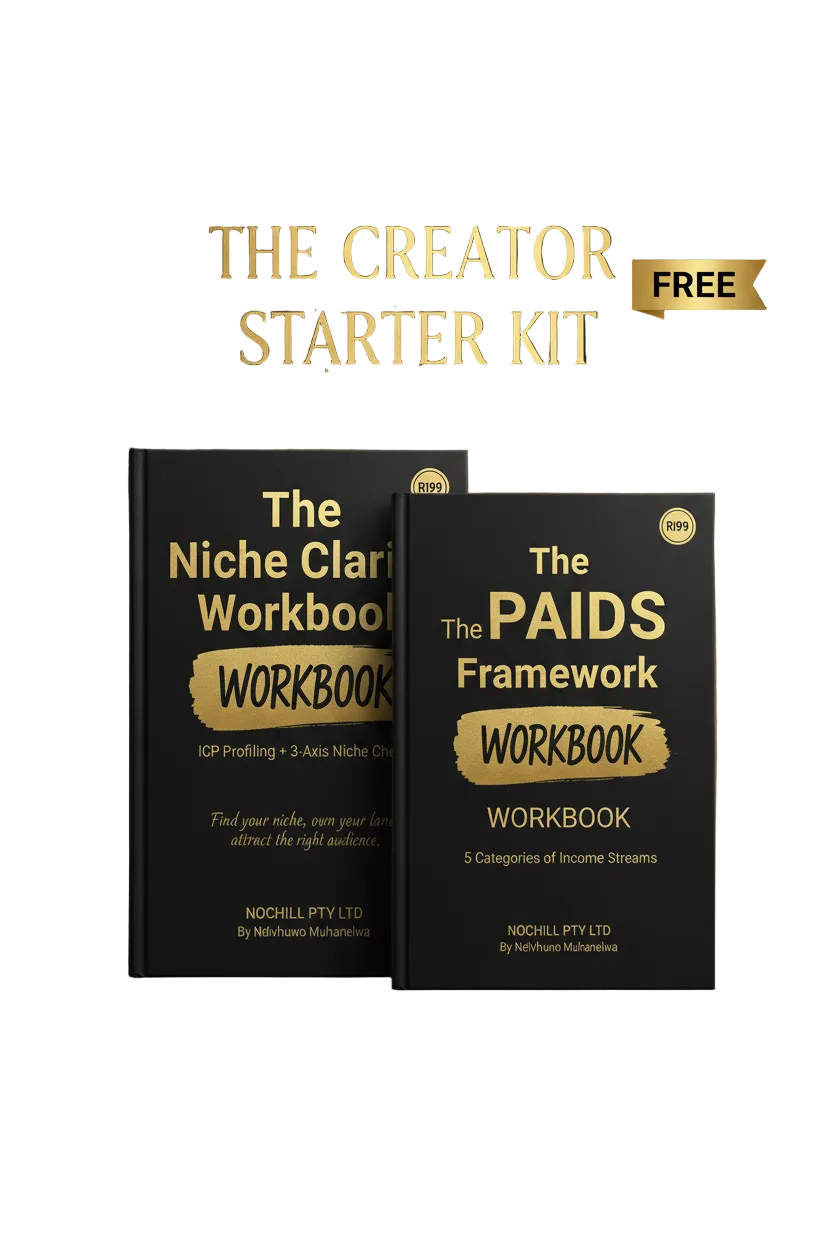
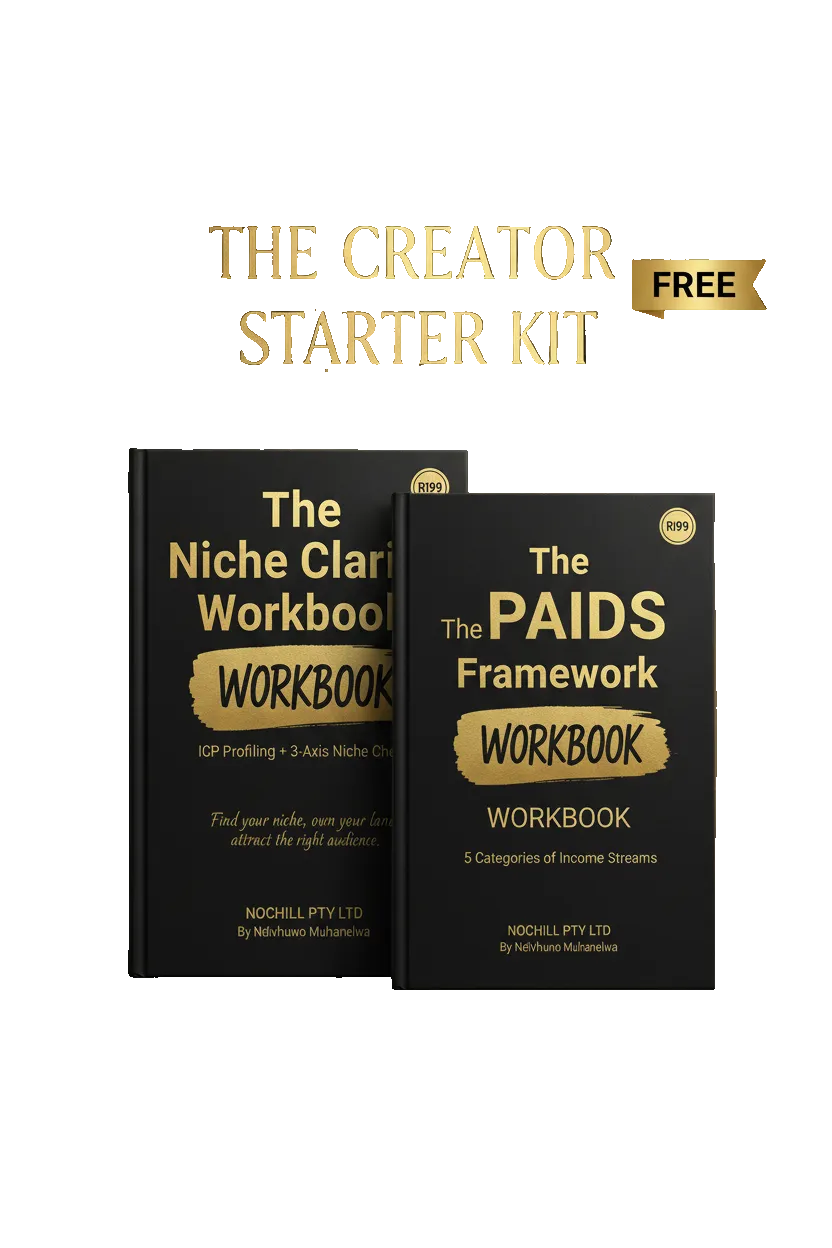
Remove edge fringing on cover images, add a bold frame
Founder feedback: images didn't blend and had no defined edge. Found a
real cause — the Creator Bundle cutout had golden-brown fringing (RGB
~138,122,78, not neutral) at the edges where semi-transparent pixels
still carried the original dark background's color. Hard-thresholded
the alpha channel on both images to kill the fringe band entirely.
Wrapped each image in a bordered card (border-4 border-banana, white
interior matching the page background) so it reads as intentionally
framed rather than floating. Verified the extra padding doesn't break
the mobile no-scroll form fit.

diff --git a/src/routes/starterkit.tsx b/src/routes/starterkit.tsx
@@ -67,11 +67,13 @@ function StarterKitPage() {
             </p>
           </div>
 
-          <img
-            src="/product-covers/knowledge-entrepreneur-starter-kit-cover.png"
-            alt="The Knowledge Entrepreneur Starter Kit — 7 Worksheets, One Clear Direction"
-            className="[grid-area:image] mx-auto w-full max-w-[220px] sm:max-w-[280px] rounded-lg shadow-xl"
-          />
+          <div className="[grid-area:image] mx-auto w-full max-w-[220px] sm:max-w-[280px] rounded-xl border-4 border-banana bg-card p-4 shadow-xl">
+            <img
+              src="/product-covers/knowledge-entrepreneur-starter-kit-cover.png"
+              alt="The Knowledge Entrepreneur Starter Kit — 7 Worksheets, One Clear Direction"
+              className="w-full h-auto"
+            />
+          </div>
 
           <div className="[grid-area:description] text-center sm:text-left">
             <p className="sm:hidden font-display text-sm font-bold uppercase tracking-wide text-banana">

diff --git a/src/routes/creator-bundle.tsx b/src/routes/creator-bundle.tsx
@@ -62,11 +62,13 @@ function CreatorBundlePage() {
             </p>
           </div>
 
-          <img
-            src="/product-covers/creator-starter-bundle-cover.png"
-            alt="The Creator Starter Kit — Niche Clarity Workbook + PAIDS Framework Workbook, free"
-            className="[grid-area:image] mx-auto w-full max-w-[220px] sm:max-w-[280px] rounded-lg shadow-xl"
-          />
+          <div className="[grid-area:image] mx-auto w-full max-w-[220px] sm:max-w-[280px] rounded-xl border-4 border-banana bg-card p-4 shadow-xl">
+            <img
+              src="/product-covers/creator-starter-bundle-cover.png"
+              alt="The Creator Starter Kit — Niche Clarity Workbook + PAIDS Framework Workbook, free"
+              className="w-full h-auto"
+            />
+          </div>
 
           <div className="[grid-area:description] text-center sm:text-left">
             <p className="sm:hidden font-display text-sm font-bold uppercase tracking-wide text-banana">
